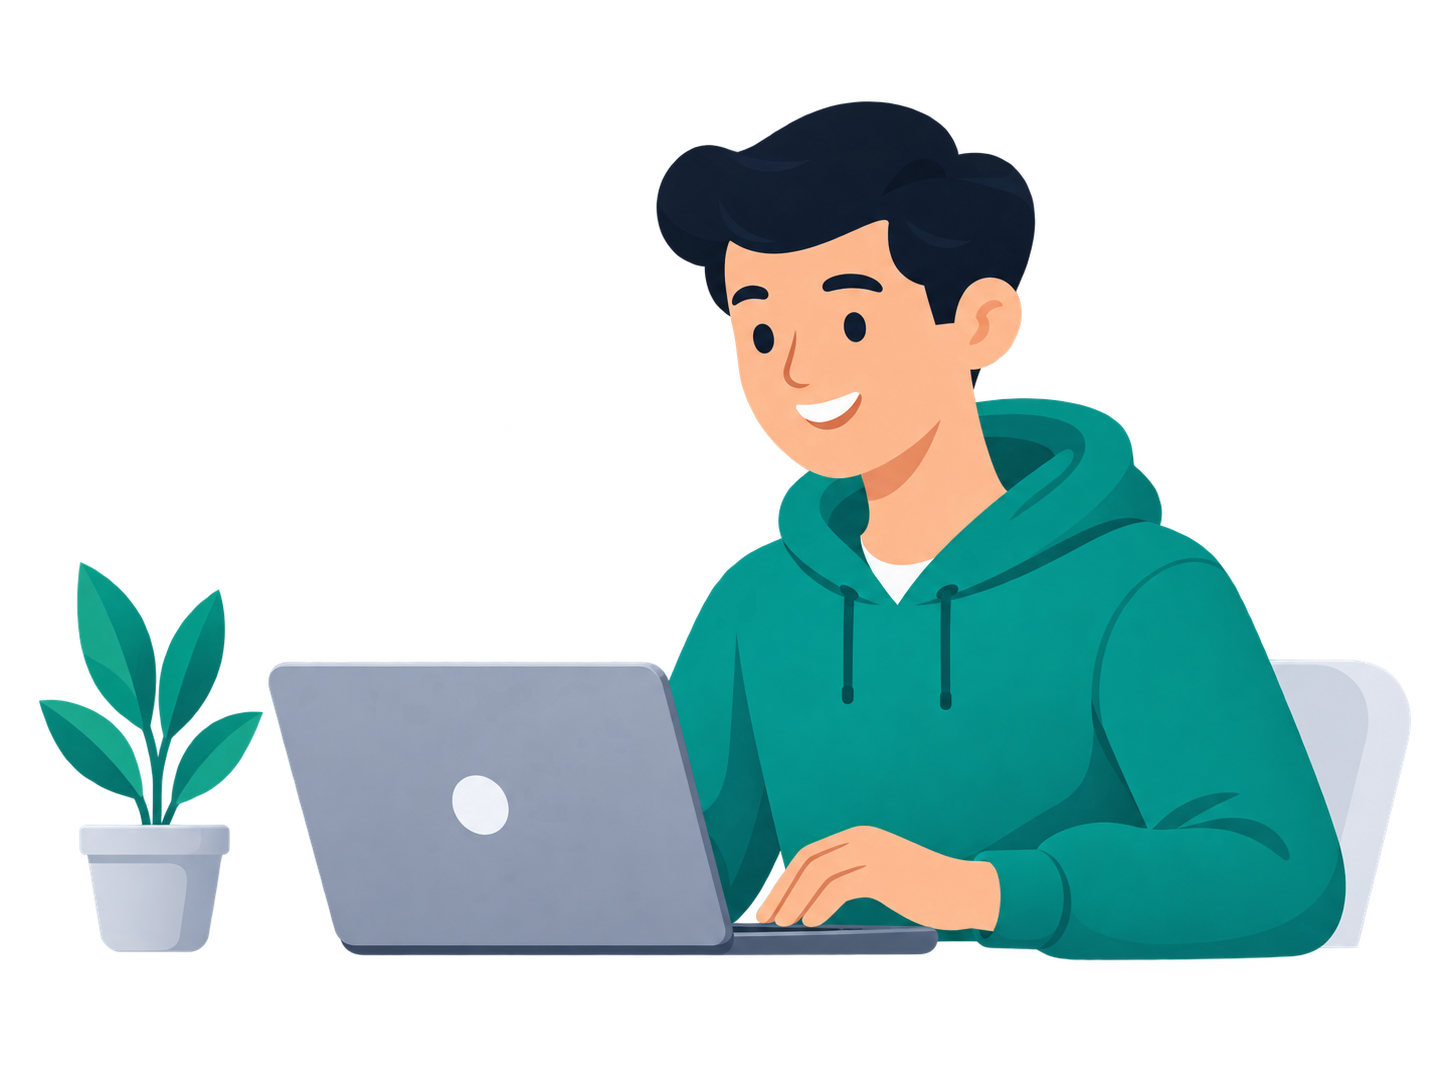
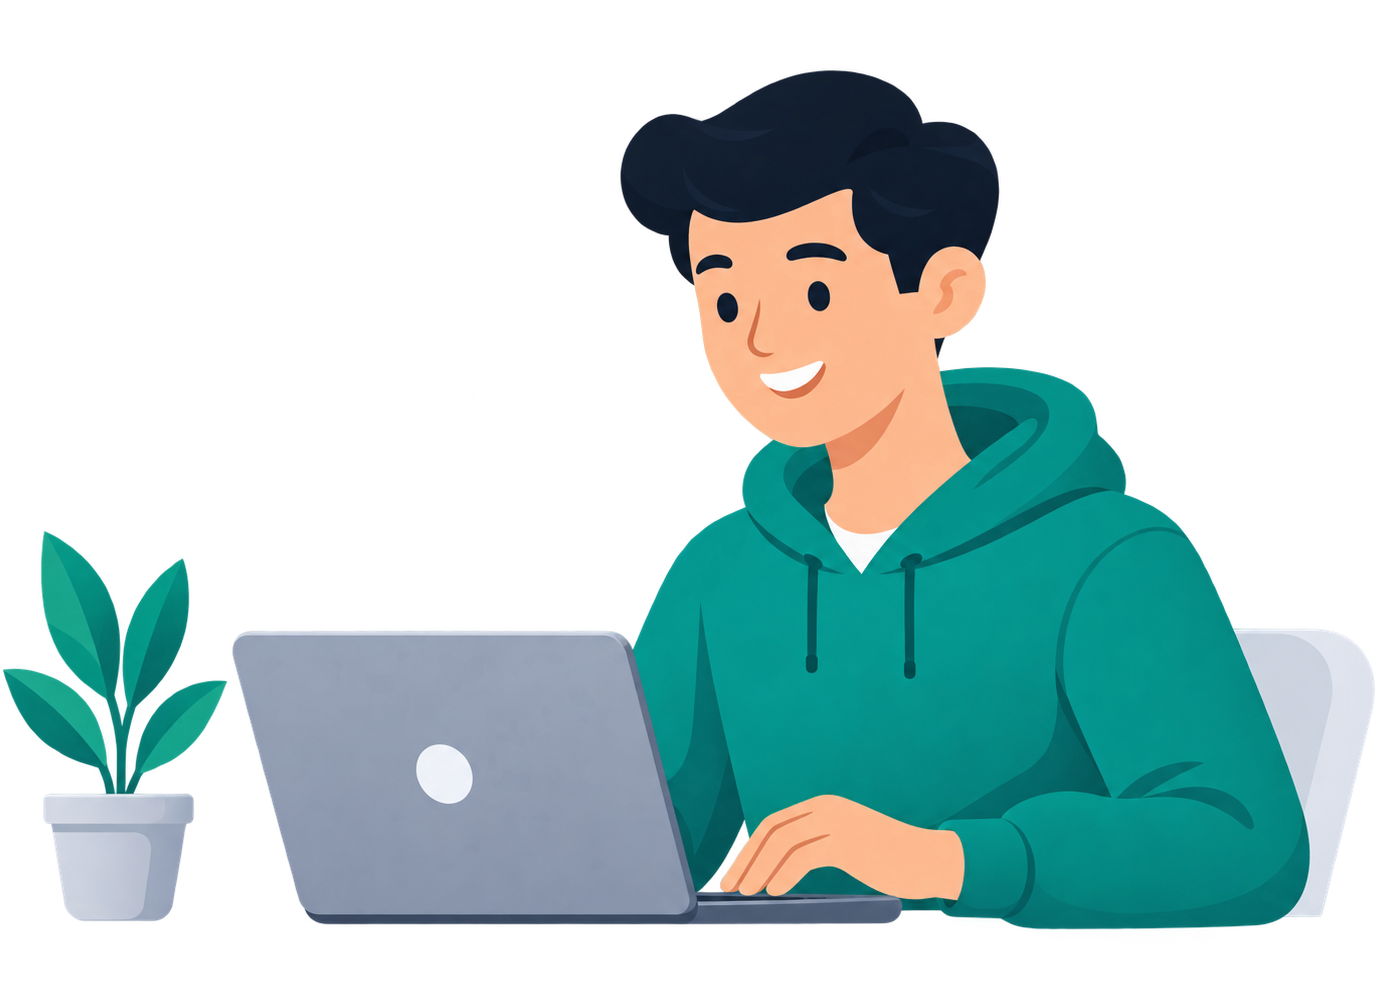
fix: crop transparent padding off hero illustration so it sits flush on the card bottom

diff --git a/src/app/student/(dashboard)/dashboard/page.tsx b/src/app/student/(dashboard)/dashboard/page.tsx
@@ -166,8 +166,8 @@ export default async function StudentDashboardPage() {
           <Image
             src="/assets/student-hero-illustration.png"
             alt=""
-            width={1448}
-            height={1086}
+            width={1382}
+            height={998}
             priority
             className="h-[210px] w-auto object-contain object-bottom"
             sizes="(min-width: 1024px) 420px, 0px"
